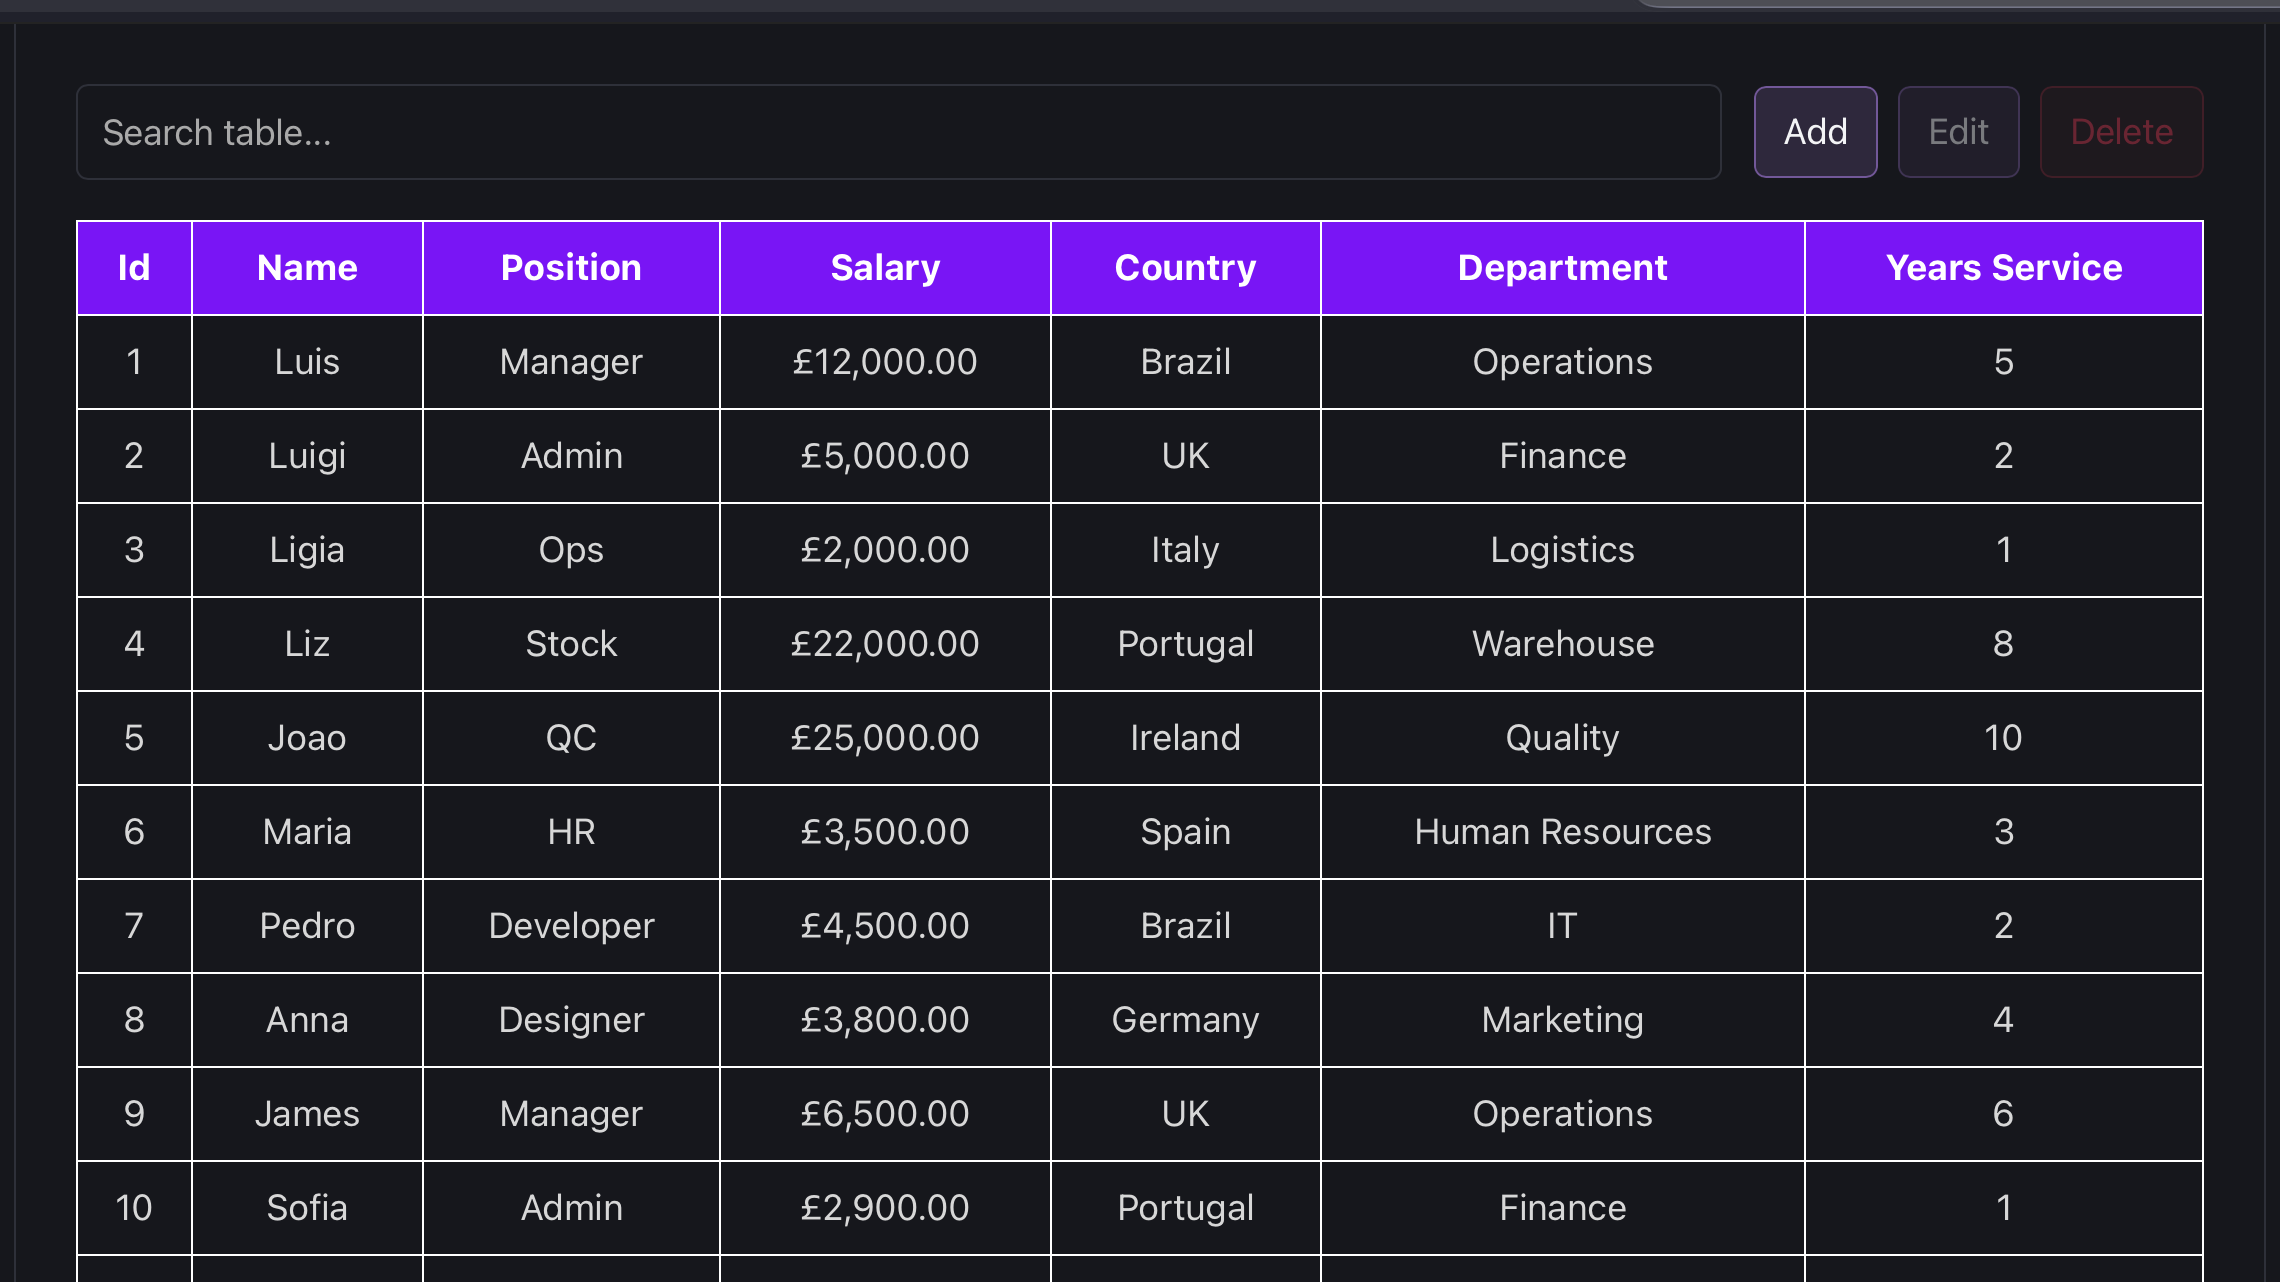
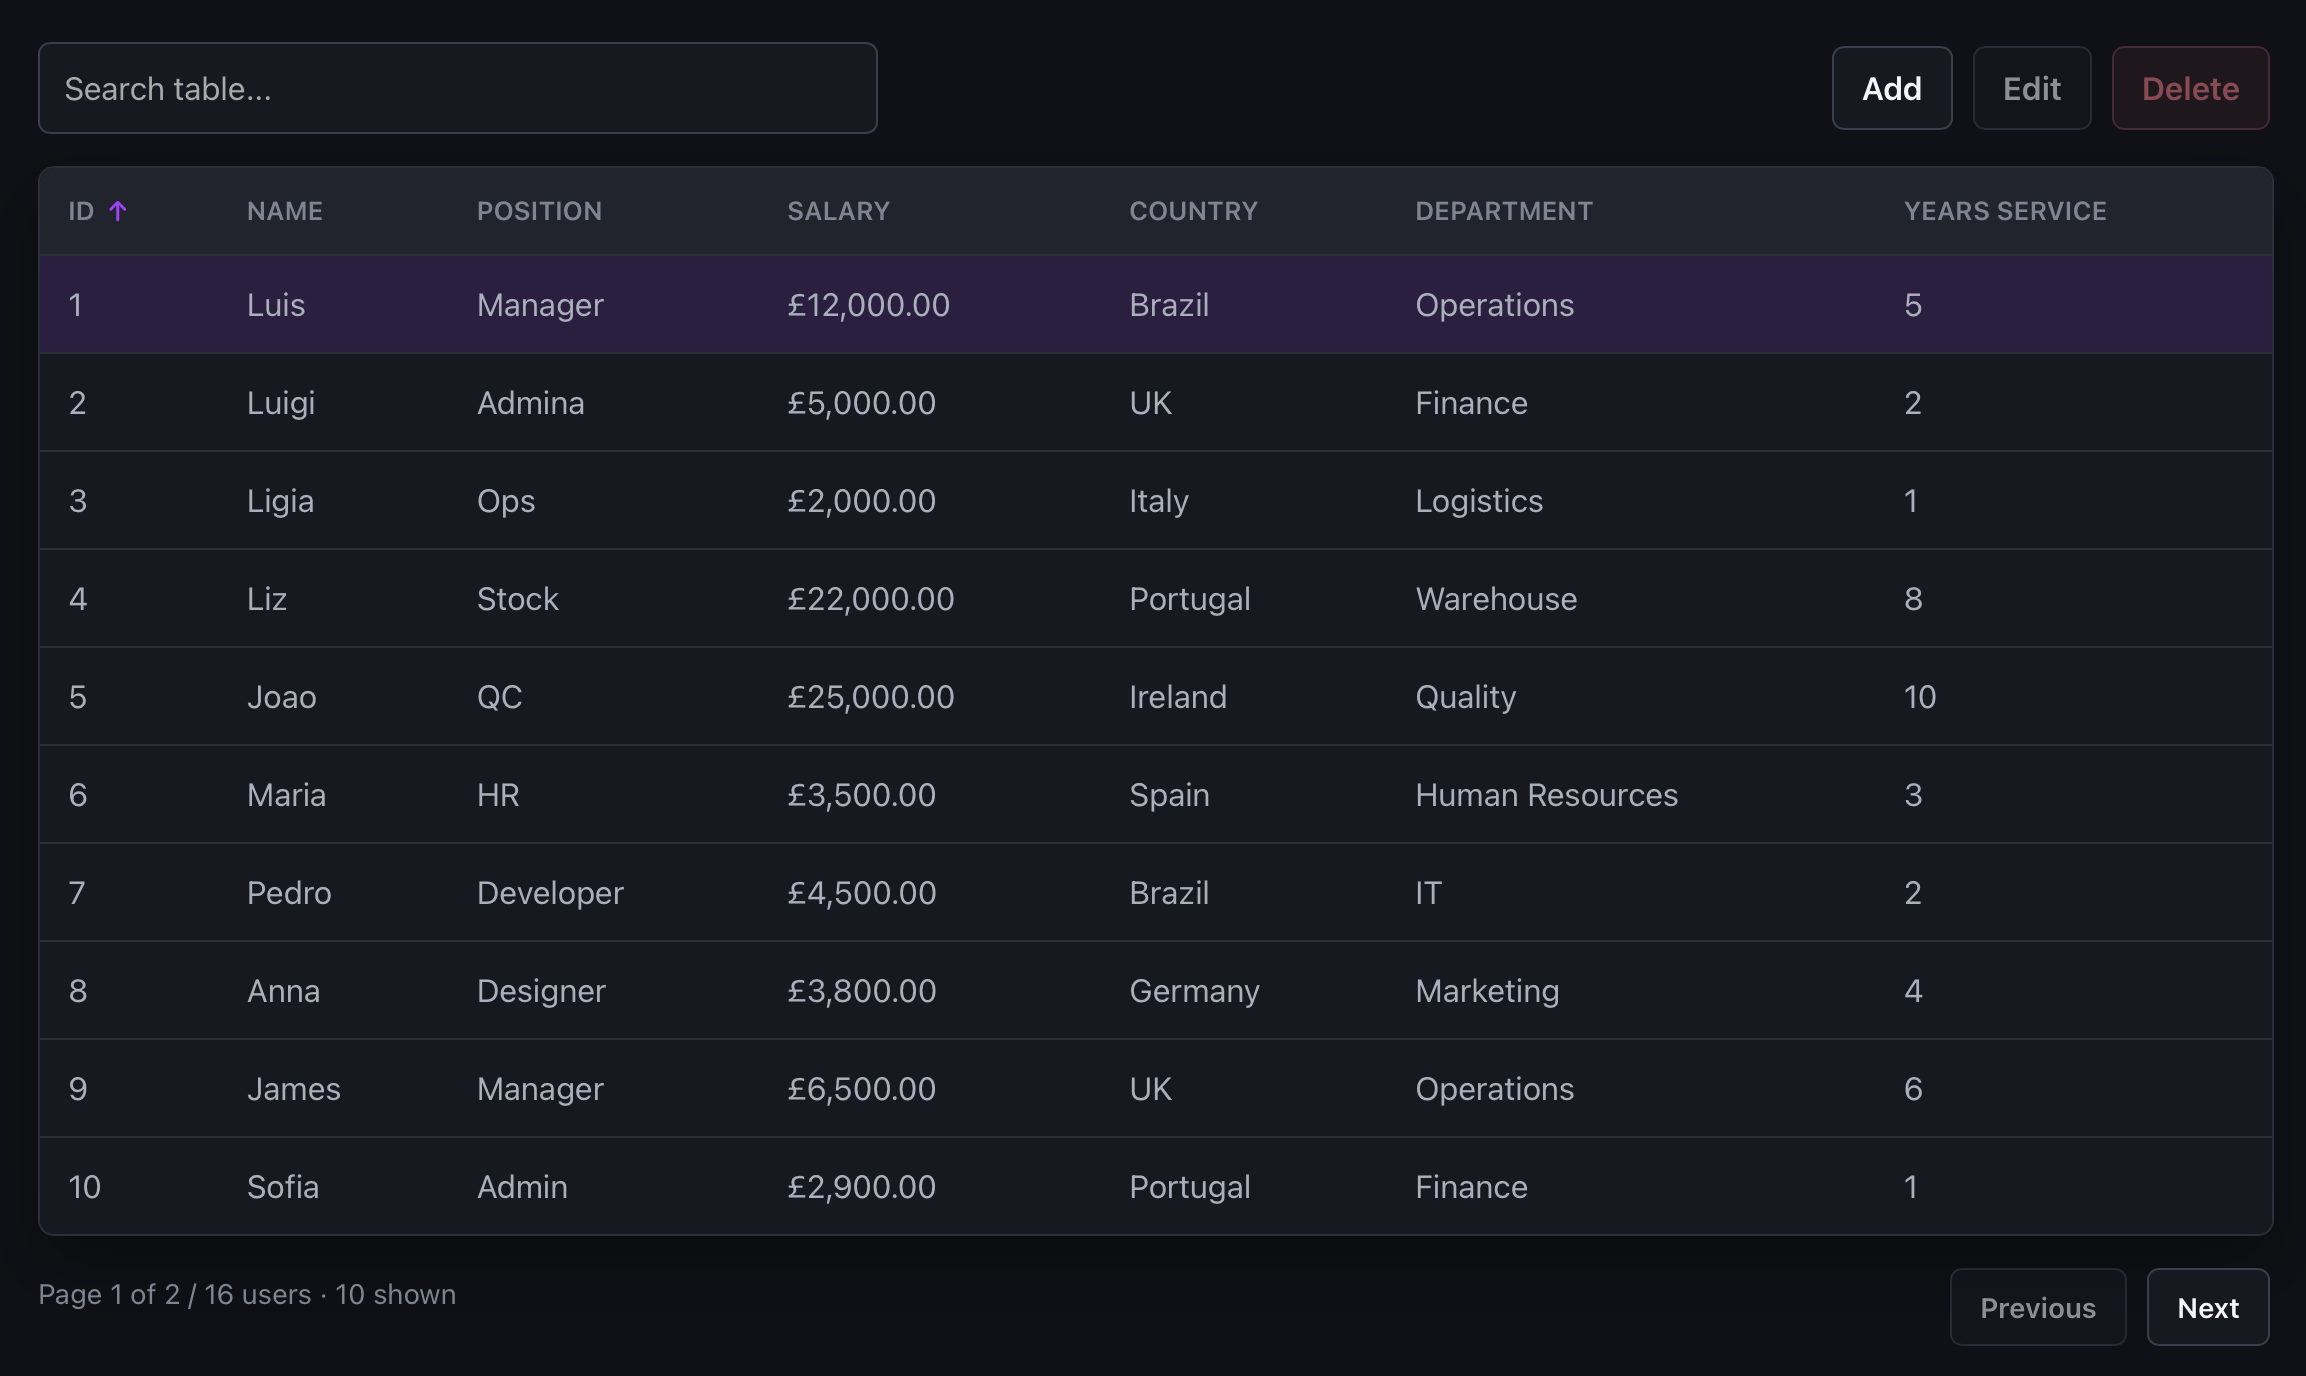
usersearch

diff --git a/index.html b/index.html
@@ -260,7 +260,7 @@
             <article class="project-card">
               <a
                 class="project-thumb"
-                href="https://juninho0322.github.io/UsersSearch/"
+                href="https://users-search-git-main-juninho0322s-projects.vercel.app"
                 target="_blank"
                 rel="noreferrer"
               >
@@ -279,21 +279,21 @@
                 </div>
 
                 <p class="project-short">
-                  CRUD user table with backend development in progress while
-                  learning Express.js.
+                  Full-stack study CRUD app with a React frontend, Express API,
+                  validation, search, sorting, and pagination.
                 </p>
 
                 <ul class="tags" aria-label="Tech stack">
                   <li>React</li>
                   <li>TypeScript</li>
                   <li>Express.js</li>
-                  <li>Backend in progress</li>
+                  <li>Supabase</li>
                 </ul>
 
                 <div class="project-footer">
                   <div class="project-links">
                     <a
-                      href="https://juninho0322.github.io/UsersSearch/"
+                      href="https://users-search-git-main-juninho0322s-projects.vercel.app"
                       target="_blank"
                       rel="noreferrer"
                     >
@@ -342,28 +342,28 @@
                   <h4 class="project-modal__title">UserSearch — Details</h4>
 
                   <p class="project-modal__desc">
-                    UserSearch is a CRUD project built for backend learning
-                    purposes, with the Express.js backend process currently in
-                    progress. It focuses on user records, table search, sorting,
-                    selection, and modal-based create/edit/delete flows.
+                    UserSearch is a full-stack study project built to practice
+                    CRUD architecture from interface to API. It combines a
+                    React/Vite frontend with an Express and TypeScript backend,
+                    Zod validation, and Supabase persistence for user records.
                   </p>
 
                   <ul class="project-modal__list">
                     <li>
-                      CRUD workflow for adding, editing, and deleting user
-                      records
+                      Complete CRUD workflow for creating, editing, viewing, and
+                      deleting user records
                     </li>
                     <li>
-                      Express.js backend process in progress for hands-on
-                      backend practice
+                      Express API with typed routes and validation-focused
+                      request handling
                     </li>
                     <li>
-                      React + TypeScript frontend with searchable and sortable
-                      user table
+                      Searchable, sortable, and paginated table built with
+                      React and TypeScript
                     </li>
                     <li>
-                      Modal interactions for safer editing and delete
-                      confirmation
+                      Supabase database integration kept behind the backend for
+                      safer secret handling
                     </li>
                   </ul>
                 </div>
